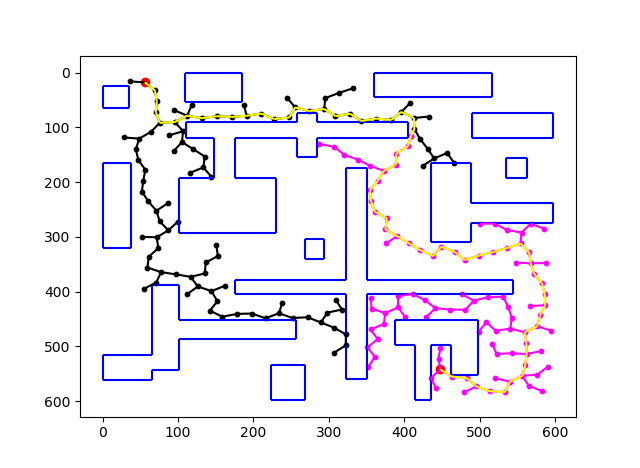
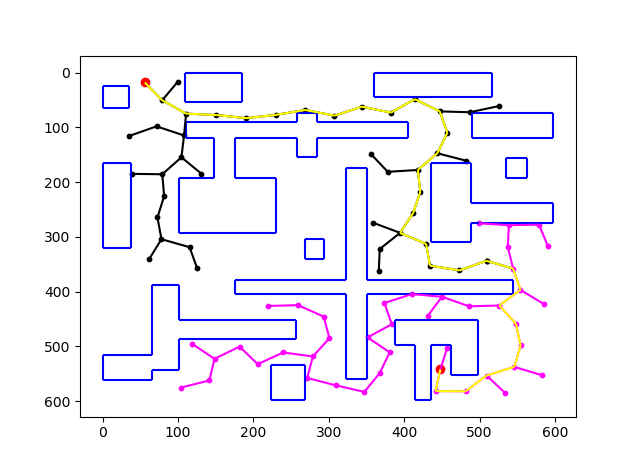
comments and final collision checks

diff --git a/hw5/rtt.py b/hw5/rtt.py
@@ -5,10 +5,10 @@ from matplotlib import collections as mc
 import random
 import math
 
-
 DIM = 600
-N = 1000000
+N = 10000000
 
+# Defines a node in the tree, with a reference to parent node
 class Node:
     def __init__(self, x, y, parent):
         self.xy = (x,y)
@@ -16,11 +16,16 @@ class Node:
         self.y = y
         self.parent = parent
 
+
+# Computes the Euclidean distance between 2 points
 def dist(xy1, xy2):
     x1, y1 = xy1
     x2, y2 = xy2
     return math.sqrt(math.pow(x1-x2, 2) + math.pow(y1-y2, 2))
 
+
+# Reads obstacle file and returns a list of segments defining the obstacle borders
+# (segments are store as lists of 2 tuples, each defining a xy-coordinate)
 def get_obstacles(obstacle_file):
     f = open(obstacle_file, 'r')
     
@@ -43,6 +48,8 @@ def get_obstacles(obstacle_file):
     f.close()
     return segments
 
+
+# Reads the start-goal file and returns the endpoints as a list of xy-coordinates
 def get_start_and_end(start_goal_file):
     f = open(start_goal_file, 'r')
 
@@ -59,6 +66,8 @@ def get_start_and_end(start_goal_file):
     return [(startx, starty), (endx, endy)]
 
 
+# Given 2 new points, draw the segment between them on the plot
+# color of the segment is determined by boolean fromStart
 def update_plot(paths, q1, q2, fromStart):
     if fromStart:
         c = 'black'
@@ -71,11 +80,12 @@ def update_plot(paths, q1, q2, fromStart):
     plt.pause(0.05)
 
 
+# Given the reached goal node, traverse back up to the root, 
+# highlighting each segment path with a yellow color
 def highlight_path(goal):
     currNode = goal
     path = []
     while currNode.parent != None:
-        #plt.scatter(currNode.x, currNode.y, color='yellow', s=[10])
         path.append([currNode.xy, currNode.parent.xy])
         currNode = currNode.parent
         
@@ -83,28 +93,11 @@ def highlight_path(goal):
     ax = plt.axes()
     ax.add_collection(lc)
 
-def build_rrt(start, goal, step, paths, obstacles):
-    root = Node(start[0], start[1], None)
-    points_list = [root]
 
-    for i in range(N):
-        if random.random() <= 0.05:
-            q_rand = goal
-        else:
-            q_rand = random.random()*DIM, random.random()*DIM
-
-        q_new = extend_rrt(points_list, q_rand, step, obstacles, paths.get_segments())
-        if q_new != None:
-            points_list.append(q_new)
-            update_plot(paths, q_new.xy, q_new.parent.xy, True)
-
-            if dist(q_new.xy, goal) <= step:
-                update_plot(paths, q_new.xy, goal, True)
-                goal_node = Node(goal[0], goal[1], q_new)
-                highlight_path(goal_node)
-                break
-
-def extend_rrt(points_list, q_rand, step, obstacles, paths):
+# Determine if rancomly generating configuration q_rand is collision-free
+# Return a new node one step size away from q_rand's nearest neighbor if collision free
+# Return None if not
+def extend_rrt(points_list, q_rand, step, obstacles):
     q_near = None
     minDist = DIM*2
     
@@ -114,9 +107,12 @@ def extend_rrt(points_list, q_rand, step, obstacles, paths):
         if d < minDist:
             minDist = d
             q_near = q
+    
+    # return q_rand is too close to tree as extending by step size might cause collision with already-drawn segments
     if dist(q_rand, q_near.xy) < step:
         return None
 
+    # find unit vector in direction q_near -> q_rand to compute q_new
     dx = q_rand[0] - q_near.x
     dy = q_rand[1] - q_near.y
     mag = math.sqrt(math.pow(dx,2) + math.pow(dy,2))
@@ -125,18 +121,61 @@ def extend_rrt(points_list, q_rand, step, obstacles, paths):
     q_newy = q_near.y + step*dy/mag
     q_new = (q_newx, q_newy)
 
-    if check_collision(q_new, q_near.xy, obstacles, paths) == False:
+    # check collision
+    if check_collision(q_new, q_near.xy, obstacles) == False:
         return Node(q_newx, q_newy, q_near)
     return None
 
+
+# Build unidirectional RRT
+def build_rrt(start, goal, step, paths, obstacles):
+    root = Node(start[0], start[1], None)
+    points_list = [root] #list of nodes
+    consecutive_none = 0 #keep track of consecutive unsuccessful iterations
+
+    for i in range(N):
+        # Bias of 5% of choosing goal node as q_rand
+        if random.random() <= 0.05:
+            q_rand = goal
+        else:
+            q_rand = random.random()*DIM, random.random()*DIM
+
+        q_new = extend_rrt(points_list, q_rand, step, obstacles)
+
+        # if new node is collision-free, extend the tree
+        if q_new != None:
+            points_list.append(q_new)
+            update_plot(paths, q_new.xy, q_new.parent.xy, True)
+
+            # check if within step size of goal
+            if dist(q_new.xy, goal) <= step:
+                if check_collision(q_new.xy, goal, obstacles) == False:
+                    update_plot(paths, q_new.xy, goal, True)
+                    goal_node = Node(goal[0], goal[1], q_new)
+                    highlight_path(goal_node)
+                    break
+            consecutive_none = 0
+
+        # Exit if too many consecutive collisions
+        else:
+            consecutive_none += 1
+            if consecutive_none > 0.1*N:
+                print "No solution found"
+                break
+
+
+# Build bidirectional RRT
 def build_bi_rrt(start, goal, step, paths_start, paths_goal, obstacles):
     root_start = Node(start[0], start[1], None)
     root_goal = Node(goal[0], goal[1], None)
-    start_points_list = [root_start]
-    goal_points_list = [root_goal]
+    start_points_list = [root_start] # list of nodes in tree rooted at start
+    goal_points_list = [root_goal] # list of nodes in tree rooted at goal
 
-    fromStart = True
+    fromStart = True # true if current iteration builds from true start node
+    consecutive_none = 0 #keep track of consecutive unsuccessful iterations
+
     for i in range(N):
+        # set appropriate goal node depending on iteration
         if fromStart:
             currGoal = goal
             goals_list = goal_points_list
@@ -148,37 +187,46 @@ def build_bi_rrt(start, goal, step, paths_start, paths_goal, obstacles):
             points_list = goal_points_list
             p = paths_goal
 
+        # Bias of 5% of choosing goal node as q_rand
         if random.random() <= 0.05:
             q_rand = currGoal
         else:
             q_rand = random.random()*DIM, random.random()*DIM
 
-        q_new = extend_rrt(points_list, q_rand, step, obstacles, p.get_segments())
+        q_new = extend_rrt(points_list, q_rand, step, obstacles)
+
+        # if new node is collision-free, extend the tree        
         if q_new != None:
             points_list.append(q_new)
             update_plot(p, q_new.xy, q_new.parent.xy, fromStart)
 
+            # check if new node is within step size of any node in opposite tree
             found_goal = False
             for g in goals_list:
                 if dist(q_new.xy, g.xy) <= step:
-                    update_plot(p, q_new.xy, g.xy, fromStart)
-                    goal_node = Node(g.x, g.y, q_new)
-                    highlight_path(goal_node)
-                    highlight_path(g)
-                    found_goal = True
-                    break
+                    if check_collision(q_new.xy, g.xy, obstacles) == False:
+                        update_plot(p, q_new.xy, g.xy, fromStart)
+                        goal_node = Node(g.x, g.y, q_new)
+                        highlight_path(goal_node)
+                        highlight_path(g)
+                        found_goal = True
+                        break
             if found_goal:
                 break
             fromStart = not fromStart
+            consecutive_none = 0
+
+        # Exit if too many consecutive collisions
+        else:
+            consecutive_none += 1
+            if consecutive_none > 0.1*N:
+                print "No solution found"
+                break
 
 
-def orientation(a, b, c):
-    if ((b[1] - a[1]) * (c[0] - b[0]) - (b[0] - a[0]) * (c[1] - b[1])) > 0:
-        return 1
-    return -1
-        
-def check_collision(q1, q2, obstacles, paths):
-    borders = obstacles #+ paths
+# Check if new segment q1-q2 would intersect with any obstacle border
+def check_collision(q1, q2, obstacles):
+    borders = obstacles
     for border in borders:
         b1 = border[0]
         b2 = border[1]
@@ -187,6 +235,14 @@ def check_collision(q1, q2, obstacles, paths):
     return False
 
 
+# Determine orientation of three points (i.e. clockwise or counterclockwise)
+def orientation(a, b, c):
+    if ((b[1] - a[1]) * (c[0] - b[0]) - (b[0] - a[0]) * (c[1] - b[1])) > 0:
+        return 1
+    return -1
+
+
+# Determine if segment a-b intersercts with segment c-d by compraing orientations
 def intersect(a, b, c, d):
     if orientation(a, c, d) == orientation(b, c, d):
         return False
@@ -196,7 +252,6 @@ def intersect(a, b, c, d):
 
 
 if __name__ == '__main__':
-    distance = 5
     if len(sys.argv) < 4 or len(sys.argv) > 5:
         print "Invalid number of arguments. Usage: python rtt.py <distance> <obstacles-file> <start-goal-file> <-b>"
         sys.exit(1)
@@ -213,7 +268,6 @@ if __name__ == '__main__':
     endpoints = get_start_and_end(sys.argv[3])
     endpoints_x, endpoints_y = zip(*endpoints)
     plt.scatter(endpoints_x, endpoints_y, color='r')
-
     obstacles_lc = mc.LineCollection(obstacles, color='b')
     paths_start = mc.LineCollection([], color='black')
     paths_goal = mc.LineCollection([], color='magenta')
@@ -226,7 +280,7 @@ if __name__ == '__main__':
     plt.ion()
     plt.gca().invert_yaxis()
 
-    # Run RTT
+    # Run RTT and save output
     if len(sys.argv) == 5:
         build_bi_rrt(endpoints[0], endpoints[1], distance, paths_start, paths_goal, obstacles)
         plt.ioff()

diff --git a/hw5/README.md b/hw5/README.md
@@ -1,0 +1,24 @@
+#Lab 4
+###Group 24 [qv2106, rmp2191, yh2886]
+
+You can find our main in rrt.py. This was written for Python2.7.
+
+Our implementation specific details are:
+* Collision detection is done by determining if a new segment-to-be-drawn intersects with any obstacle boundary. To determine an intersection, we compare the orientation of the four segment endpoints (2 endpoints of new segment + 2 endpoints of obstacle border).
+* In addition to collision with obstacle boundaries, we avoid new segments colliding with the existing tree by treating the following as a collision: the randomly generated configuration (q_rand) and its nearest neighbor (q_near) are less than step-size from each other. This is because this scenario will cause the new segment to extend from q_near past q_rand, which may bring it closer to another node in the tree (i.e. q_near ceases to be the actual nearest neighbor)
+* There is a 5% bias of choosing the goal point as the randomly generated point at each iteration. 
+* The script will terminate following 1000000 consecutive iterations of non-collision-free generated configurations.  
+
+Any special assumption we made are:
+* The program will run for at most 10000000 iterations (an invalid q_rand due to collision still counts as 1 iteration).
+* The dimensions of the world are 600x600. This is set as a global variable DIM. 
+
+Images of sample results are stored in rrt.png and rrt-bi.png for non-bidirectional and bidirectional runs respectively.
+
+The script expects command-line arguments in the following format:
+'python rtt.py <distance> <obstacles-file> <start-goal-file> <-b>'
+
+-b is an optional argument specifying the program to run bidirecitonal RRT. For example, to run the homework files with step size 20:
+'python rtt.py 20 world_obstacles.txt start_goal.txt'
+or
+'python rtt.py 20 world_obstacles.txt start_goal.txt -b'
